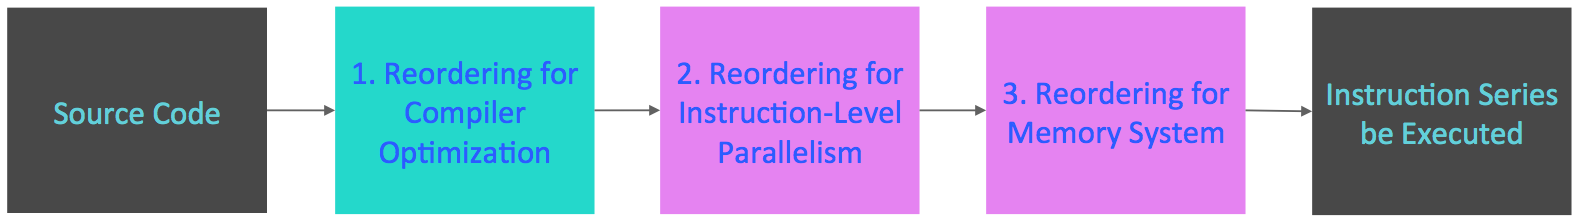
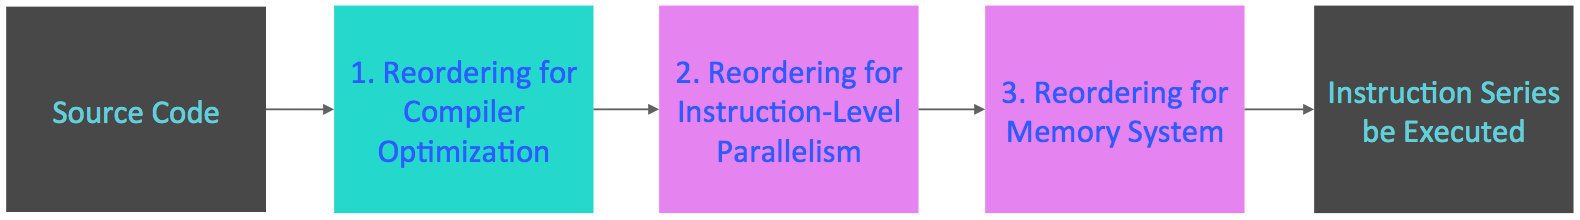
Add today's note.

diff --git a/src/main/resources/note/012.About_Java_Memory_Model.md b/src/main/resources/note/012.About_Java_Memory_Model.md
@@ -45,7 +45,39 @@
         * 記憶體系統的重排序: 由於處理器使用快取和讀/寫緩衝區, 這使得加載和儲存操作看上去可能是在亂序執行.
 
     * 從Java原始碼到最終實際執行的指令序列, 分別會經歷下面三種重排序: <br/><br/>
-      <img src="../note_img/jmm/jmm-003.png" width="790" height="111"/><br/><br/>
+      <img src="../note_img/jmm/jmm-003.png" width="790" height="110"/><br/><br/>
         * 上述的1屬於編譯器重排序, 2與3都屬於處理器重排序. 這些重排序都可能會導致多執行緒程式出現記憶體可見性的問題. 對於編譯器, JMM的編譯器重排序規則會禁止特定類型的編譯器重排序(並不是所有的編譯器重排序都要禁止). 對於處理器重排序, JMM的處理器重排序規則會要求Java編譯器在生成指令序列時, 插入特定類型的記憶體屏障(memory barriers, intel稱之為memory fence)指令, 通過對記憶體屏障指令來禁止特定類型的處理器重排序(並非所有的處理器重排序都要禁止).
 
     * JMM屬於語言級的記憶體模型, 其確保在不同的編譯器和不同的處理器平台之上, 通過禁止特定類型的編譯器重排序和處理器重排序, 為開發者提供一致的記憶體可見性保證.
+
+* 處理器重排序與記憶體屏障指令
+    * 現在的處理器使用寫入緩衝區來臨時保存向記憶體寫入的資料. 寫緩衝區可以保證指令的pipeline持續運行, 其可以避免由於處理器停頓下來等待向記憶體寫入資料而產生的延遲.
+      同時, 通過以批次處理的方式刷新寫緩衝區, 以及合併寫緩衝區中對同一記憶體位址的多次寫入動作, 可以減少對memory bus的佔用. 雖然寫緩衝區有這麼多好處,
+      但每個處理器上的寫緩衝區, 僅僅對其所在的處理器可見. 這個特性會對記憶體操作的執行順序產生重要的影響, 即: 處理器對記憶體的讀/寫操作的執行順序,
+      不一定與記憶體實際發生的讀/寫操作順序一致. 為了具體說明, 請見以下範例:<br/><br/>
+      <img src="../note_img/jmm/jmm-004.png" width="732" height="266"/><br/><br/>
+
+
+
+
+
+
+
+
+
+
+
+
+
+
+
+
+
+
+
+
+
+
+
+
+
